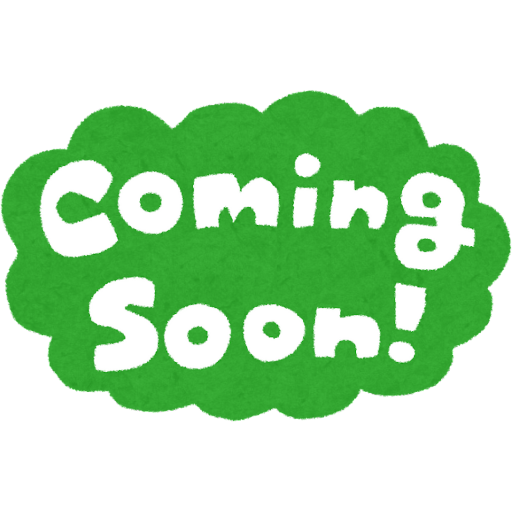
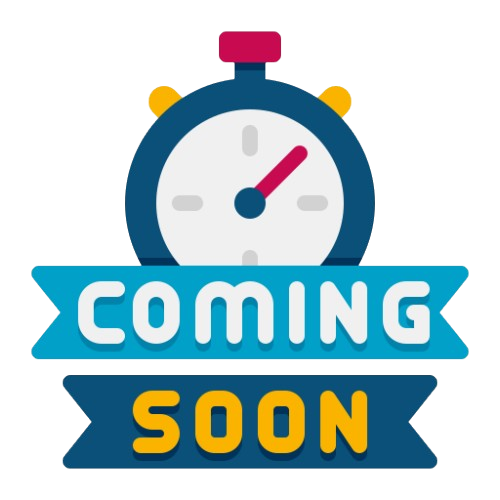
Hapus Seksi 7 dan atur semua seksi default non-expanded

diff --git a/src/Profile.tsx b/src/Profile.tsx
@@ -2,24 +2,16 @@
 "use client";
 
 import { useEffect, useRef, useState } from "react";
-import * as html2pdf from "html2pdf.js";
 import Section2Intro from "./components/profile/Section2Intro";
 import Section3FormalEducation from "./components/profile/Section3FormalEducation";
 import Section4WorkLearning from "./components/profile/Section4WorkLearning";
 import Section5Organization from "./components/profile/Section5Organization";
 import Section6CreativeLearning from "./components/profile/Section6CreativeLearning";
-import Section7ExportPDF from "./components/profile/Section7ExportPDF";
 import { ArrowUp } from "lucide-react";
 
 const Profile = () => {
   const exportRef = useRef<HTMLDivElement>(null);
   const [showScroll, setShowScroll] = useState(false);
-  const [sections, setSections] = useState({
-    formal: true,
-    kerja: true,
-    organisasi: true,
-    kreatif: true,
-  });
 
   useEffect(() => {
     const onScroll = () => setShowScroll(window.scrollY > 300);
@@ -29,77 +21,6 @@ const Profile = () => {
 
   const scrollToTop = () =>
     window.scrollTo({ top: 0, behavior: "smooth" });
-
-  const handleExport = () => {
-    try {
-      if (!exportRef.current) return;
-      const clone = exportRef.current.cloneNode(true) as HTMLElement;
-
-      // Hapus elemen kontrol/tombol
-      clone.querySelectorAll(".no-print").forEach(el => el.remove());
-
-      // Hapus seksi yang tidak dipilih
-      if (!sections.formal)     clone.querySelector("#formal")?.remove();
-      if (!sections.kerja)      clone.querySelector("#kerja")?.remove();
-      if (!sections.organisasi) clone.querySelector("#organisasi")?.remove();
-      if (!sections.kreatif)    clone.querySelector("#kreatif")?.remove();
-
-      // Force-expand setiap seksi yang dipilih
-      (["formal", "kerja", "organisasi", "kreatif"] as const).forEach(id => {
-        if (sections[id]) {
-          const el = clone.querySelector<HTMLElement>(`#${id}`);
-          el?.querySelectorAll("[class*='max-h-0']").forEach(e => {
-            e.classList.remove("max-h-0");
-            e.classList.add("max-h-[1000px]", "opacity-100", "mt-4");
-          });
-          el?.querySelectorAll("[class*='opacity-0']").forEach(e => {
-            e.classList.remove("opacity-0");
-            e.classList.add("opacity-100");
-          });
-        }
-      });
-
-      // Hapus semua kelas "dark:*"
-      clone.querySelectorAll<HTMLElement>("[class]").forEach(node => {
-        Array.from(node.classList)
-          .filter(c => c.startsWith("dark:"))
-          .forEach(darkCls => node.classList.remove(darkCls));
-      });
-
-      // Atur style tiap <section> untuk PDF
-      clone.querySelectorAll<HTMLElement>("section").forEach(el => {
-        el.style.minHeight       = "3.5in";         // ~30% tinggi A4
-        el.style.backgroundColor = "#ffffff";       // latar putih
-        el.style.color           = "#000000";       // teks hitam
-      });
-
-      // Tempatkan clone off-screen (tetap dapat dirender oleh html2canvas)
-      const wrapper = document.createElement("div");
-      wrapper.style.position = "absolute";
-      wrapper.style.left     = "-9999px";
-      wrapper.style.top      = "0";
-      wrapper.appendChild(clone);
-      document.body.appendChild(wrapper);
-
-      // Ekspor hanya dari clone, bukan dari wrapper
-      html2pdf
-        .default()
-        .set({
-          margin:       0.5,
-          filename:     "Mufty-Profile.pdf",
-          image:        { type: "jpeg", quality: 0.98 },
-          html2canvas:  { scale: 2 },
-          jsPDF:        { unit: "in", format: "a4", orientation: "portrait" },
-        })
-        .from(clone)
-        .save()
-        .then(() => {
-          document.body.removeChild(wrapper);
-        });
-    } catch (error) {
-      console.error("Error saat mengekspor PDF:", error);
-    }
-  };
 
   return (
     <>
@@ -112,13 +33,6 @@ const Profile = () => {
         <Section4WorkLearning />
         <Section5Organization />
         <Section6CreativeLearning />
-        <div className="max-w-3xl mx-auto w-full">
-          <Section7ExportPDF
-            sections={sections}
-            setSections={setSections}
-            onExport={handleExport}
-          />
-        </div>
       </div>
 
       {showScroll && (

diff --git a/index.html b/index.html
@@ -2,7 +2,7 @@
 <html lang="en">
   <head>
     <meta charset="UTF-8" />
-    <link rel="icon" type="image/svg+xml" href="/vite.svg" />
+    <link rel="icon" type="image/png" href="/assets/images/fav.png" />
     <meta name="viewport" content="width=device-width, initial-scale=1.0" />
     <title>Mufty Experiences</title>
   </head>

diff --git a/src/components/profile/Section6CreativeLearning.tsx b/src/components/profile/Section6CreativeLearning.tsx
@@ -2,7 +2,7 @@ import { useState } from "react";
 import { ChevronDown } from "lucide-react";
 
 const Section6CreativeLearning = () => {
-  const [isExpanded, setIsExpanded] = useState(true);
+  const [isExpanded, setIsExpanded] = useState(false);
 
   return (
     <section

diff --git a/src/components/profile/Section3FormalEducation.tsx b/src/components/profile/Section3FormalEducation.tsx
@@ -3,7 +3,7 @@ import { useState } from "react";
 import { ChevronDown } from "lucide-react";
 
 const Section3FormalEducation = () => {
-  const [isExpanded, setIsExpanded] = useState(true);
+  const [isExpanded, setIsExpanded] = useState(false);
 
   return (
     <section

diff --git a/src/components/profile/Section4WorkLearning.tsx b/src/components/profile/Section4WorkLearning.tsx
@@ -2,7 +2,7 @@ import { useState } from "react";
 import { ChevronDown } from "lucide-react";
 
 const Section4WorkLearning = () => {
-  const [isExpanded, setIsExpanded] = useState(true);
+  const [isExpanded, setIsExpanded] = useState(false);
 
   return (
     <section

diff --git a/src/components/profile/Section5Organization.tsx b/src/components/profile/Section5Organization.tsx
@@ -2,7 +2,7 @@ import { useState } from "react";
 import { ChevronDown } from "lucide-react";
 
 const Section5Organization = () => {
-  const [isExpanded, setIsExpanded] = useState(true);
+  const [isExpanded, setIsExpanded] = useState(false);
 
   return (
     <section
